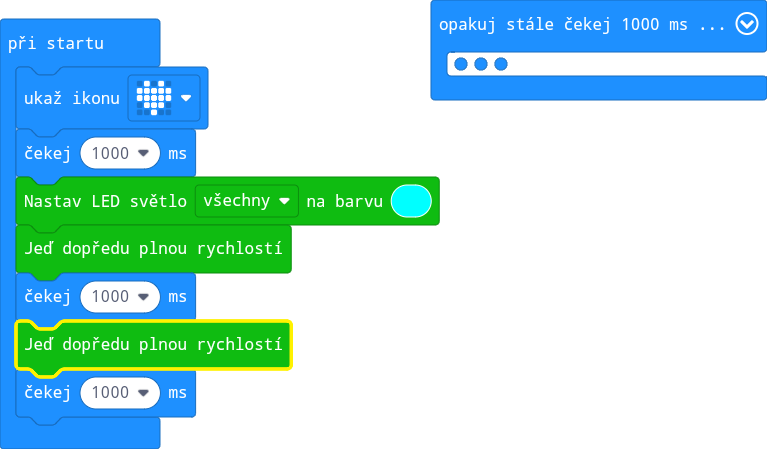
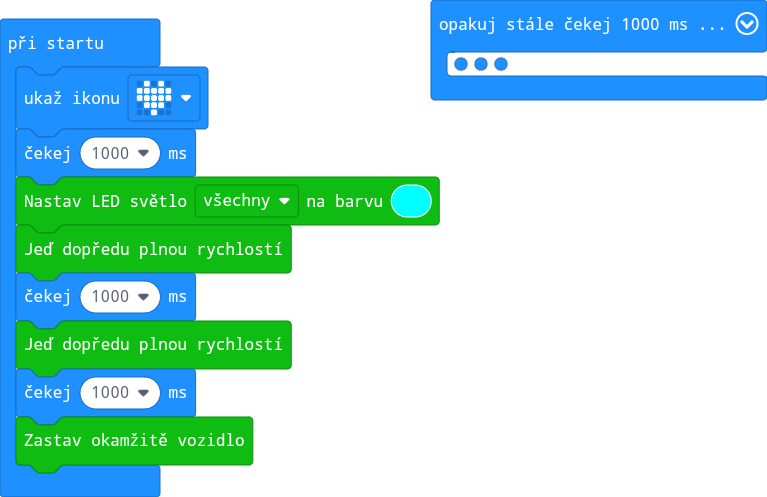
Aktualizovat main.blocks, main.ts

Changed region(s): [[0.0, 0.0312, 0.5997, 0.9666], [0.5398, 0.0, 1.0, 0.2494]]

diff --git a/main.ts b/main.ts
@@ -5,6 +5,7 @@ cuteBot.forward()
 basic.pause(1000)
 cuteBot.forward()
 basic.pause(1000)
+cuteBot.stopcar()
 basic.forever(function () {
     basic.pause(1000)
     basic.showLeds(`
